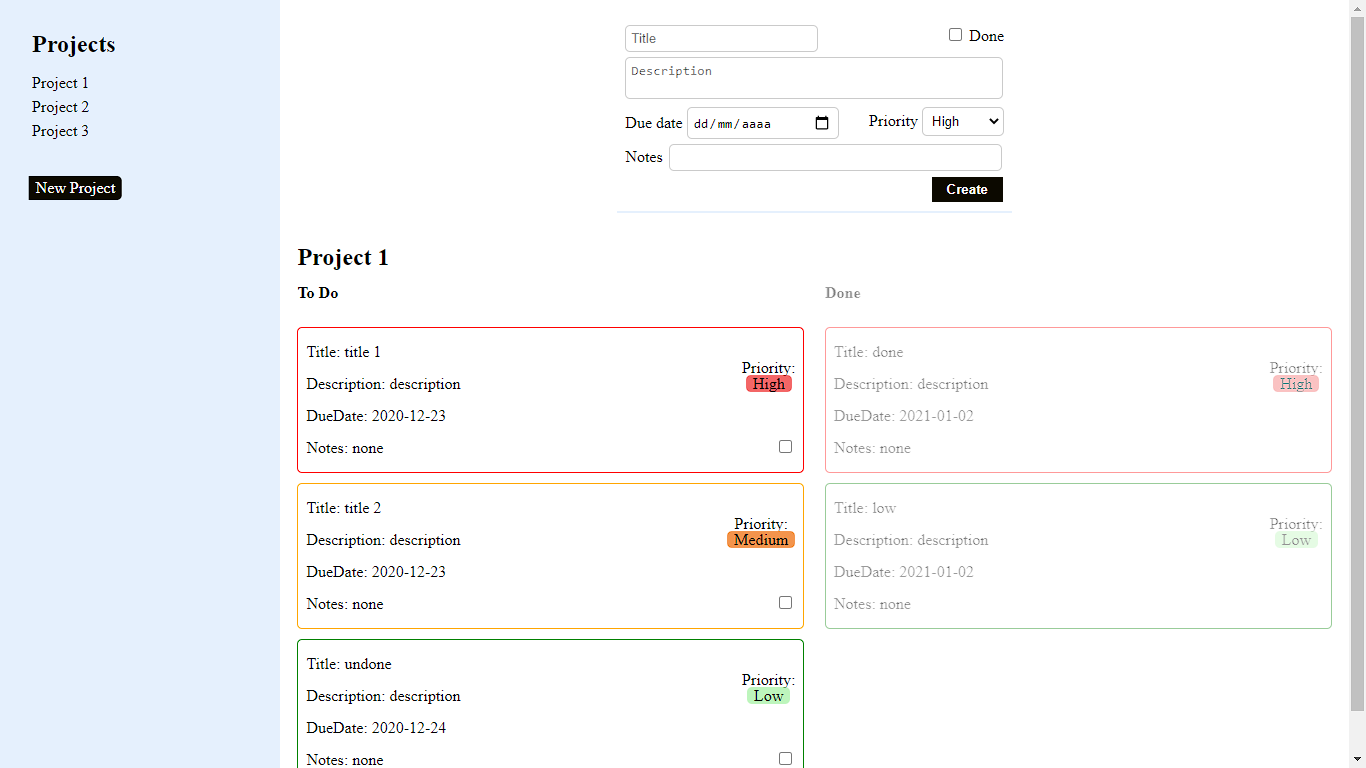
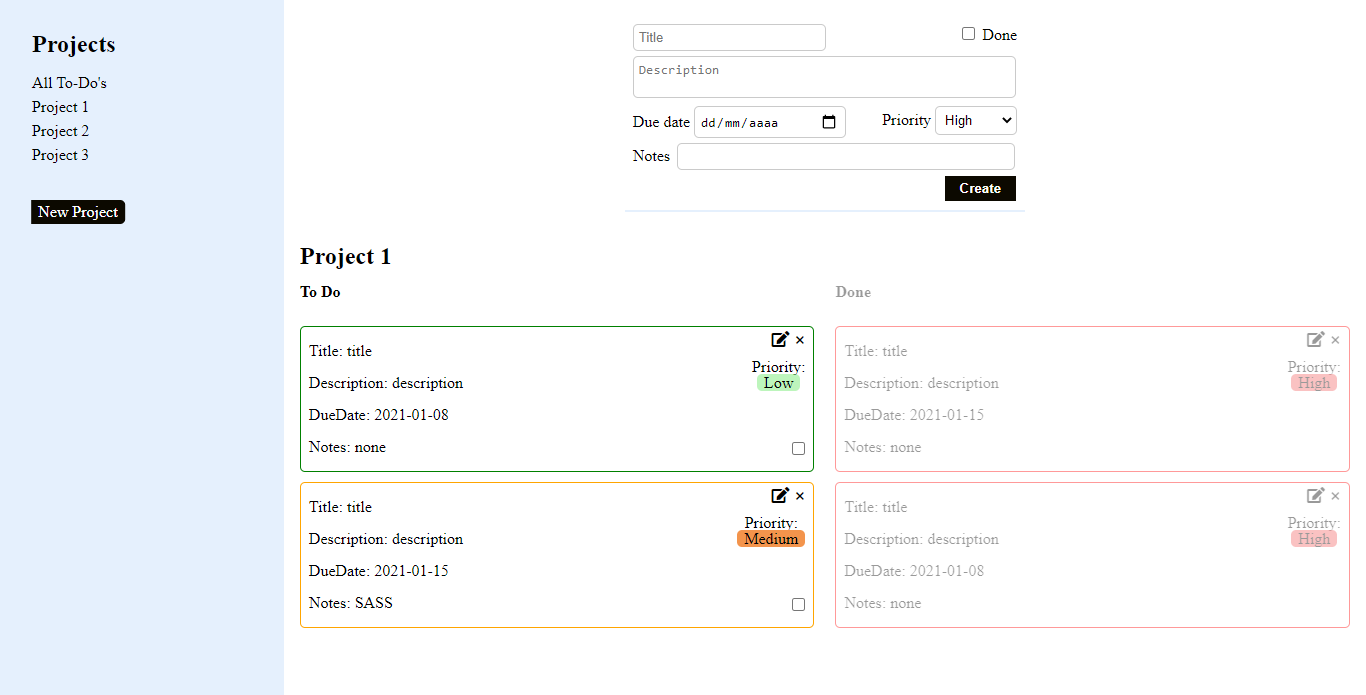
Update readmefile usage documentation

diff --git a/README.md b/README.md
@@ -11,6 +11,7 @@ This is a To Do List App using JavaScript and Webpack. With as goal learning how
 - Webpack
 - HTML
 - CSS
+- LocalStorage  
 
 ## Live Demo
 
@@ -30,6 +31,12 @@ To get a local copy up and running follow these simple example steps.
 - This to-do list app allows you to create new projects on the left side pane by clicking on the 'Add new project' button, all the projects added will be shown above the add project button.
 
 - The to-do form will be shown together with all related todos when a project is clicked, all the related added todos can be marked as 'done' by clicking on the rightmost checkbox in the todo card. All the 'done' to-dos are displayed with a lower opacity to highlight the undone to-dos.
+
+- Every added todo can be neither edited or deleted if needed by clicking the 'edit' and 'delete' button respectively.
+
+- All the todos added will be shown in the default project called 'All To-Do's' when the app is opened.
+
+- LocalStorage is used to save all the data.
 
 ## Author
 
